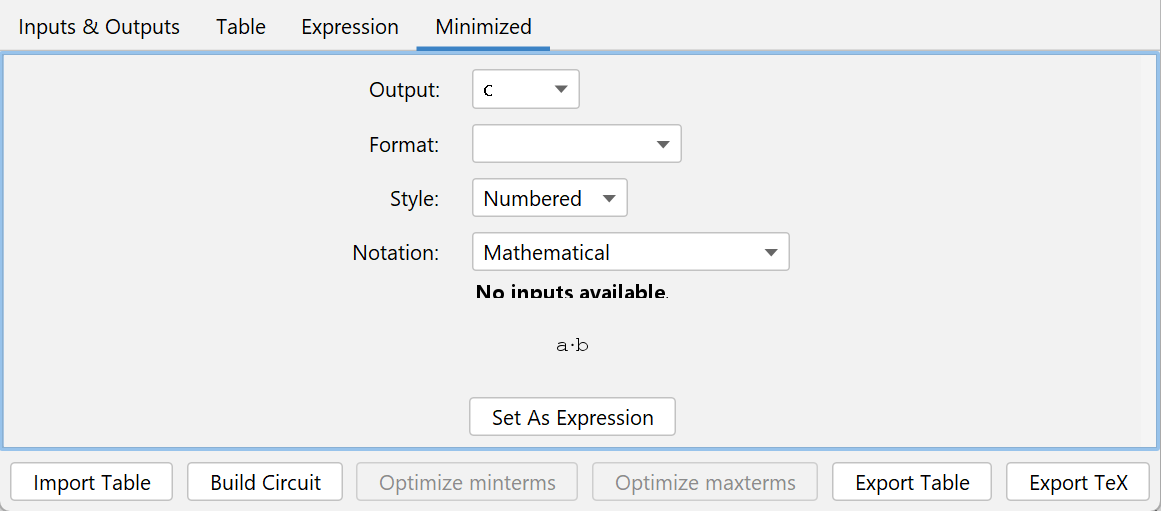
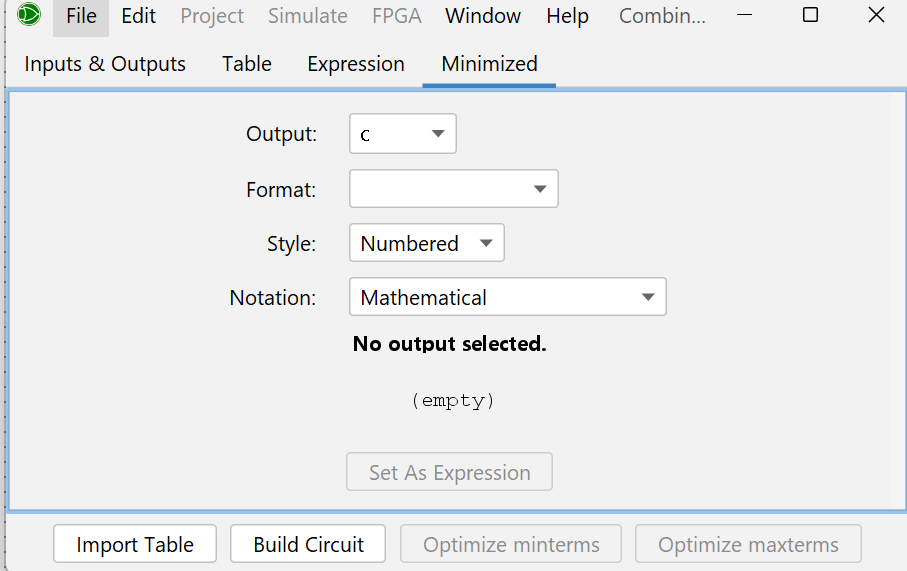
Fixed disabled minized tab & added images

diff --git a/src/main/java/com/cburch/logisim/analyze/gui/ExpressionTab.java b/src/main/java/com/cburch/logisim/analyze/gui/ExpressionTab.java
@@ -84,8 +84,8 @@ class ExpressionTab extends AnalyzerTab {
 
     public ExpressionTableModel() {
       updateCopy();
-      model.getOutputs().addVariableListListener(this);
-      model.getOutputExpressions().addOutputExpressionsListener(this);
+      /*model.getOutputs().addVariableListListener(this);
+      model.getOutputExpressions().addOutputExpressionsListener(this);*/
     }
 
     @Override
@@ -140,6 +140,7 @@ class ExpressionTab extends AnalyzerTab {
     @Override
     public void expressionChanged(OutputExpressionsEvent event) {
       if (event.getType() == OutputExpressionsEvent.OUTPUT_EXPRESSION) {
+/*
         final var name = event.getVariable();
         int idx = -1;
         for (final var e : listCopy) {
@@ -156,11 +157,13 @@ class ExpressionTab extends AnalyzerTab {
             break;
           }
         }
+*/
       }
     }
 
     @Override
     public void listChanged(VariableListEvent event) {
+/*
       updateCopy();
       final var idx = event.getIndex();
       switch (event.getType()) {
@@ -184,11 +187,12 @@ class ExpressionTab extends AnalyzerTab {
           // none
         }
       }
+*/
     }
 
     void update() {
-      updateCopy();
-      fireTableDataChanged();
+      //updateCopy();
+      //fireTableDataChanged();
     }
 
     void updateCopy() {
@@ -242,10 +246,10 @@ class ExpressionTab extends AnalyzerTab {
     NamedExpression newExpr;
 
     public ExpressionEditor() {
-      field.setBorder(
+      /*field.setBorder(
           BorderFactory.createCompoundBorder(
               field.getBorder(), BorderFactory.createEmptyBorder(1, 3, 1, 3)));
-      BuddySupport.addLeft(label, field);
+      BuddySupport.addLeft(label, field);*/
     }
 
     @Override

diff --git a/src/main/java/com/cburch/logisim/analyze/gui/MinimizedTab.java b/src/main/java/com/cburch/logisim/analyze/gui/MinimizedTab.java
@@ -277,7 +277,8 @@ class MinimizedTab extends AnalyzerTab {
   private final OutputExpressions outputExprs;
 
   public MinimizedTab(AnalyzerModel model, LogisimMenuBar menubar) {
-    this.model = model;
+    //this.model = model;
+    this.model = null;
     this.outputExprs = model.getOutputExpressions();
     //outputExprs.addOutputExpressionsListener(myListener);
 
@@ -536,7 +537,7 @@ class MinimizedTab extends AnalyzerTab {
 
     @Override
     protected Transferable createTransferable(JComponent c) {
-      return new ExpressionSelection(minimizedExpr.getRenderData());
+      return null; //new ExpressionSelection(minimizedExpr.getRenderData());
     }
   }
 
@@ -548,7 +549,7 @@ class MinimizedTab extends AnalyzerTab {
     }
 
     public void setImage(Image image) {
-      this.image = image;
+      this.image = null; //image;
     }
 
     @Override
@@ -557,8 +558,7 @@ class MinimizedTab extends AnalyzerTab {
     }
 
     @Override
-    public boolean isDataFlavorSupported(DataFlavor flavor) {
-      return DataFlavor.imageFlavor.equals(flavor);
+    public boolean isDataFlavorSupported(DataFlavor flavor) { return false && DataFlavor.imageFlavor.equals(flavor);
     }
 
     @Override
@@ -566,7 +566,8 @@ class MinimizedTab extends AnalyzerTab {
       if (!DataFlavor.imageFlavor.equals(flavor)) {
         throw new UnsupportedFlavorException(flavor);
       }
-      return image;
+      //return image;
+      return null;
     }
   }
 
